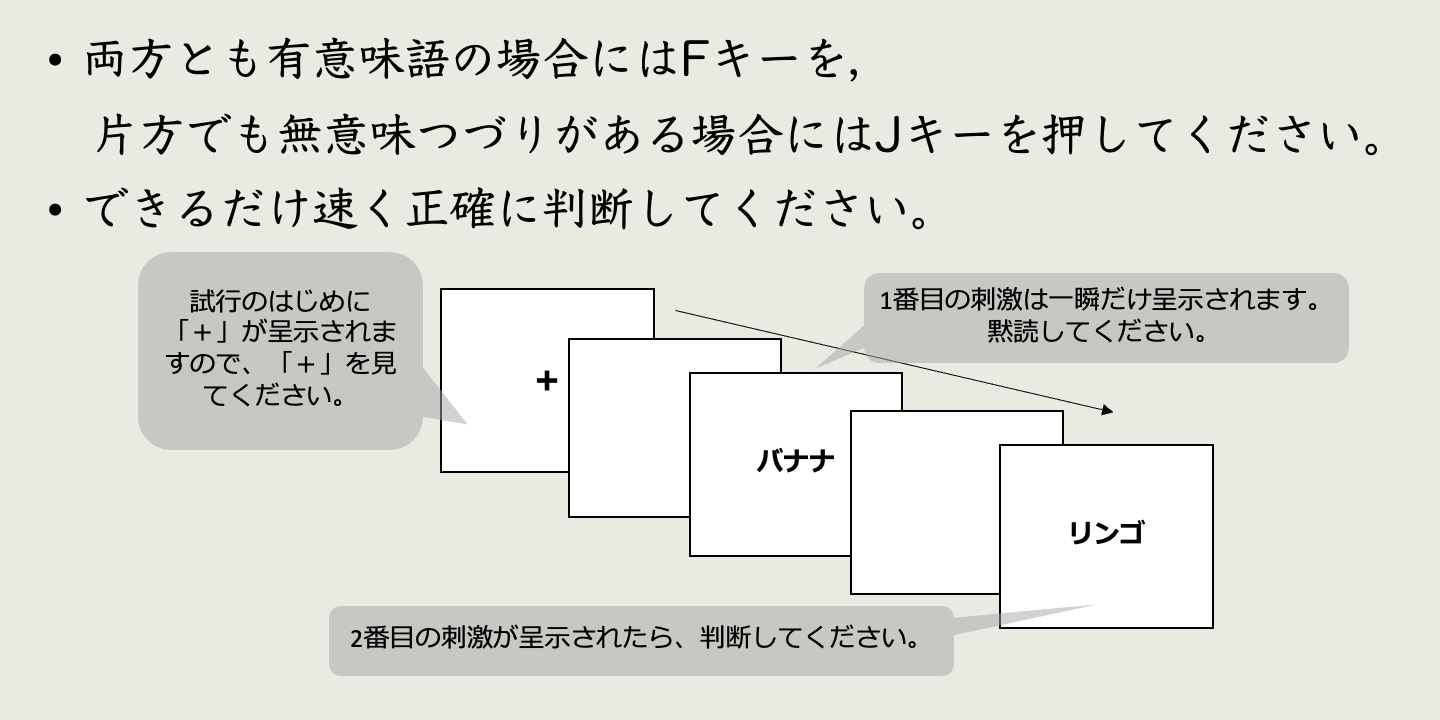
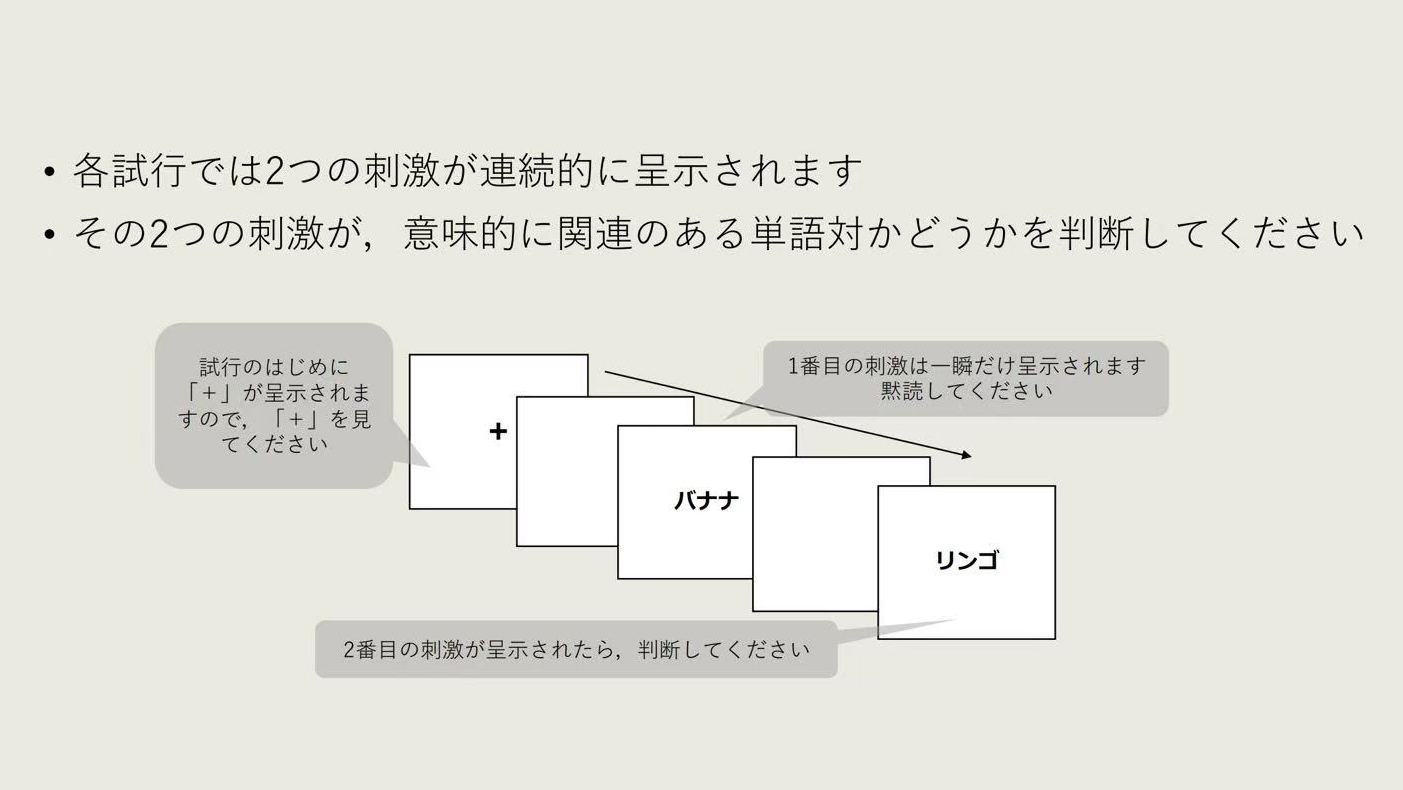
make xu happy

diff --git a/src/components/ExpInstruct.vue b/src/components/ExpInstruct.vue
@@ -49,10 +49,10 @@ const instructionContent = computed(() => {
             </p>
             <br />
             <p>
-              「<b>両方とも有意義語の場合</b>」は<kbd>F</kbd>キー、
+              「<b>意味的に関連がある場合</b>」は<kbd>F</kbd>キー、
             </p>
             <p>
-              「<b>片方でも無意味つづりがある場合</b>」は<kbd>J</kbd>キーです。
+              「<b>意味的に関連がない場合</b>」は<kbd>J</kbd>キーです。
             </p>
             <br />
             <p>刺激を見逃さないように、集中して課題に取り組んでください。</p>

diff --git a/src/components/Experiment.vue b/src/components/Experiment.vue
@@ -224,10 +224,10 @@ onUnmounted(() => {
     </div>
 
     <div v-if="isPractice" class="fixed bottom-8 text-center text-gray-100">
-      単語間に意味的な関連がある場合を（<span
+      単語間に意味的に関連がある場合を（<span
         class="mx-1 px-3 py-1 bg-gray-400 rounded font-bold"
         >F</span
-      >）、 意味的な関連がない場合を（<span
+      >）、 意味的に関連がない場合を（<span
         class="mx-1 px-3 py-1 bg-gray-400 rounded font-bold"
         >J</span
       >）を押してください。
